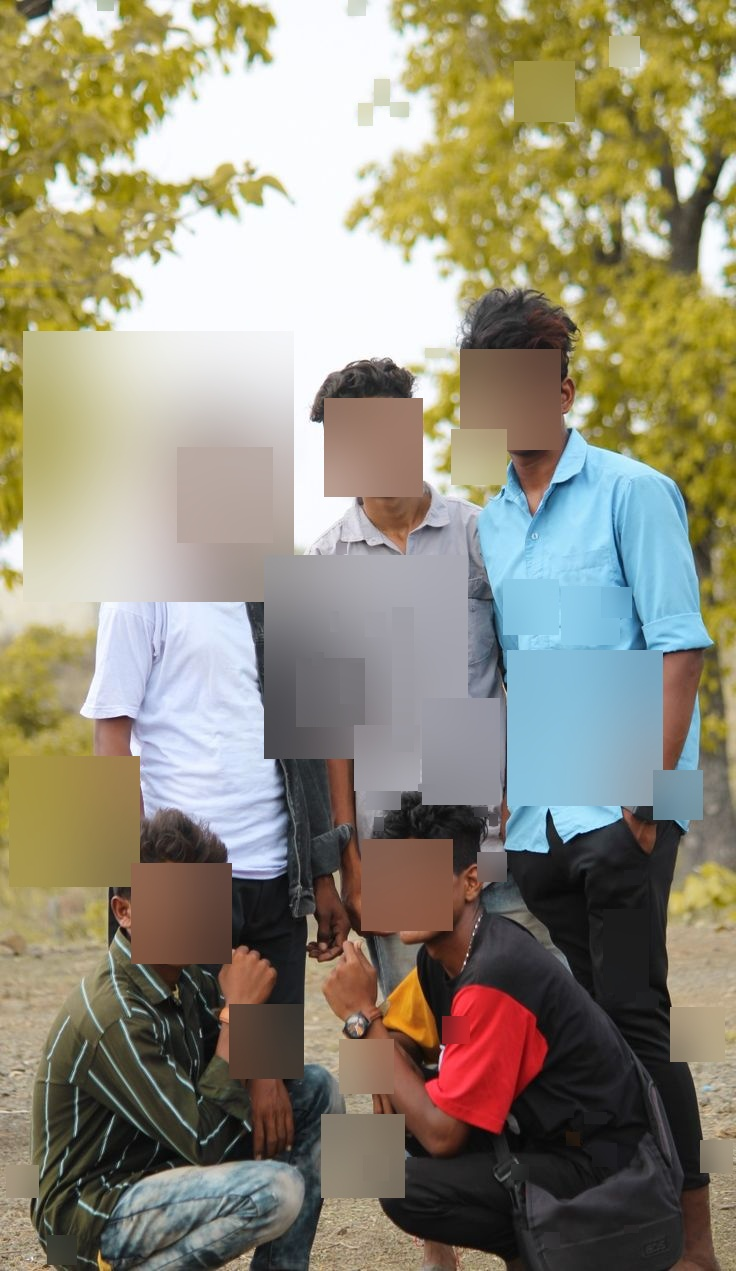
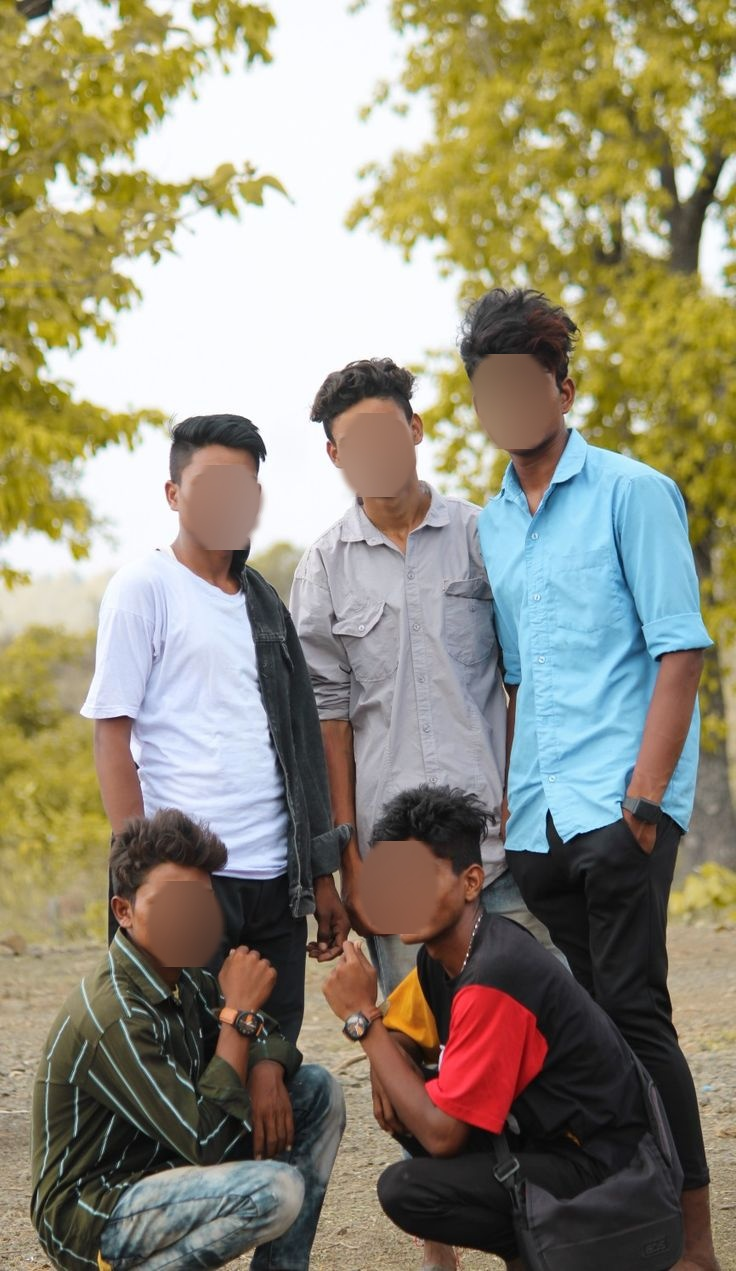
fixed bur effect mulfunction

diff --git a/project/src/processor.py b/project/src/processor.py
@@ -445,7 +445,27 @@ def mediapipe_face_blur(
                 k = base_k
             if k % 2 == 0:
                 k += 1
-            out[y0:y1, x0:x1] = cv2.GaussianBlur(roi, (k, k), 0)
+            # Create a soft elliptical mask inside the detected bbox so only the
+            # central face area is blurred (prevents blurring hair/background).
+            blurred = cv2.GaussianBlur(roi, (k, k), 0)
+            rh, rw = roi.shape[:2]
+            mask = np.zeros((rh, rw), dtype=np.uint8)
+            # Ellipse centered in ROI; axes tuned to typical face proportions
+            axes = (max(1, int(rw * 0.45)), max(1, int(rh * 0.55)))
+            center = (int(rw / 2), int(rh / 2))
+            cv2.ellipse(mask, center, axes, 0, 0, 360, 255, -1)
+            # Smooth mask edges for nicer blend
+            try:
+                mask = cv2.GaussianBlur(mask, (15, 15), 0)
+            except Exception:
+                pass
+
+            if roi.ndim == 3:
+                alpha = (mask.astype(np.float32) / 255.0)[:, :, None]
+                out[y0:y1, x0:x1] = (blurred.astype(np.float32) * alpha + roi.astype(np.float32) * (1.0 - alpha)).astype(out.dtype)
+            else:
+                alpha = (mask.astype(np.float32) / 255.0)
+                out[y0:y1, x0:x1] = (blurred.astype(np.float32) * alpha + roi.astype(np.float32) * (1.0 - alpha)).astype(out.dtype)
         return out
 
     mp_seg = mp.solutions.selfie_segmentation
@@ -549,35 +569,47 @@ def mediapipe_face_blur(
         if k % 2 == 0:
             k += 1
         blurred = cv2.GaussianBlur(roi, (k, k), 0)
+        # Build an elliptical face mask inside the bbox (safer default than
+        # using the full box). If MediaPipe segmentation (`seg_mask`) exists,
+        # intersect it with the ellipse to get a tighter face-only mask.
+        rh, rw = roi.shape[:2]
+        ellipse_mask = np.zeros((rh, rw), dtype=np.uint8)
+        axes = (max(1, int(rw * 0.45)), max(1, int(rh * 0.55)))
+        center = (int(rw / 2), int(rh / 2))
+        cv2.ellipse(ellipse_mask, center, axes, 0, 0, 360, 255, -1)
 
         if 'seg_mask' in locals() and seg_mask is not None:
-            roi_mask = (seg_mask[y0:y1, x0:x1] >= float(seg_threshold)).astype(np.uint8)
+            roi_mask = (seg_mask[y0:y1, x0:x1] >= float(seg_threshold)).astype(np.uint8) * 255
             if roi_mask.size == 0:
-                out[y0:y1, x0:x1] = blurred
-                continue
-
-            coverage = float(roi_mask.mean())
-            # Aggressive dilation for low coverage masks
-            if coverage < 0.25:
-                dk = max(3, int(round(max(w, h) * 0.08)))
-                if dk % 2 == 0:
-                    dk += 1
-                kernel = cv2.getStructuringElement(cv2.MORPH_ELLIPSE, (dk, dk))
-                try:
-                    roi_mask = cv2.dilate(roi_mask, kernel, iterations=4)
-                except Exception:
-                    pass
-
-            if float(roi_mask.mean()) < 0.02:
-                out[y0:y1, x0:x1] = blurred
+                # fall back to ellipse-only
+                combined = ellipse_mask
             else:
-                if roi.ndim == 3:
-                    roi_mask3 = roi_mask[:, :, None]
-                    out[y0:y1, x0:x1] = np.where(roi_mask3 == 1, blurred, roi)
-                else:
-                    out[y0:y1, x0:x1] = np.where(roi_mask == 1, blurred, roi)
+                combined = cv2.bitwise_and(ellipse_mask, roi_mask.astype(np.uint8))
+                # If combined mask is too small, fall back to ellipse with slight dilation
+                if float(combined.mean()) / 255.0 < 0.02:
+                    dk = max(3, int(round(max(w, h) * 0.06)))
+                    if dk % 2 == 0:
+                        dk += 1
+                    kernel = cv2.getStructuringElement(cv2.MORPH_ELLIPSE, (dk, dk))
+                    try:
+                        combined = cv2.dilate(ellipse_mask, kernel, iterations=2)
+                    except Exception:
+                        combined = ellipse_mask
         else:
-            out[y0:y1, x0:x1] = blurred
+            combined = ellipse_mask
+
+        # Smooth edges for blending
+        try:
+            combined = cv2.GaussianBlur(combined, (15, 15), 0)
+        except Exception:
+            pass
+
+        if roi.ndim == 3:
+            alpha = (combined.astype(np.float32) / 255.0)[:, :, None]
+            out[y0:y1, x0:x1] = (blurred.astype(np.float32) * alpha + roi.astype(np.float32) * (1.0 - alpha)).astype(out.dtype)
+        else:
+            alpha = (combined.astype(np.float32) / 255.0)
+            out[y0:y1, x0:x1] = (blurred.astype(np.float32) * alpha + roi.astype(np.float32) * (1.0 - alpha)).astype(out.dtype)
 
     return out
 
